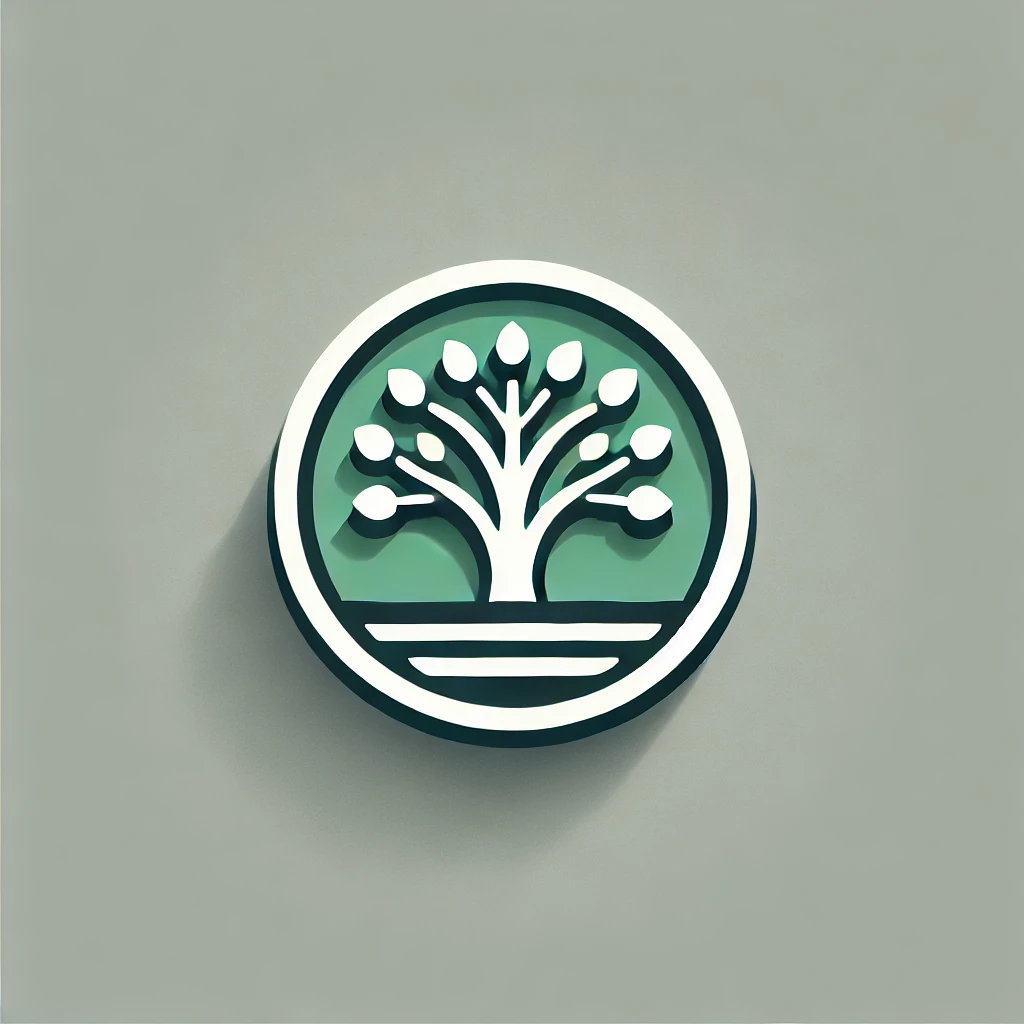
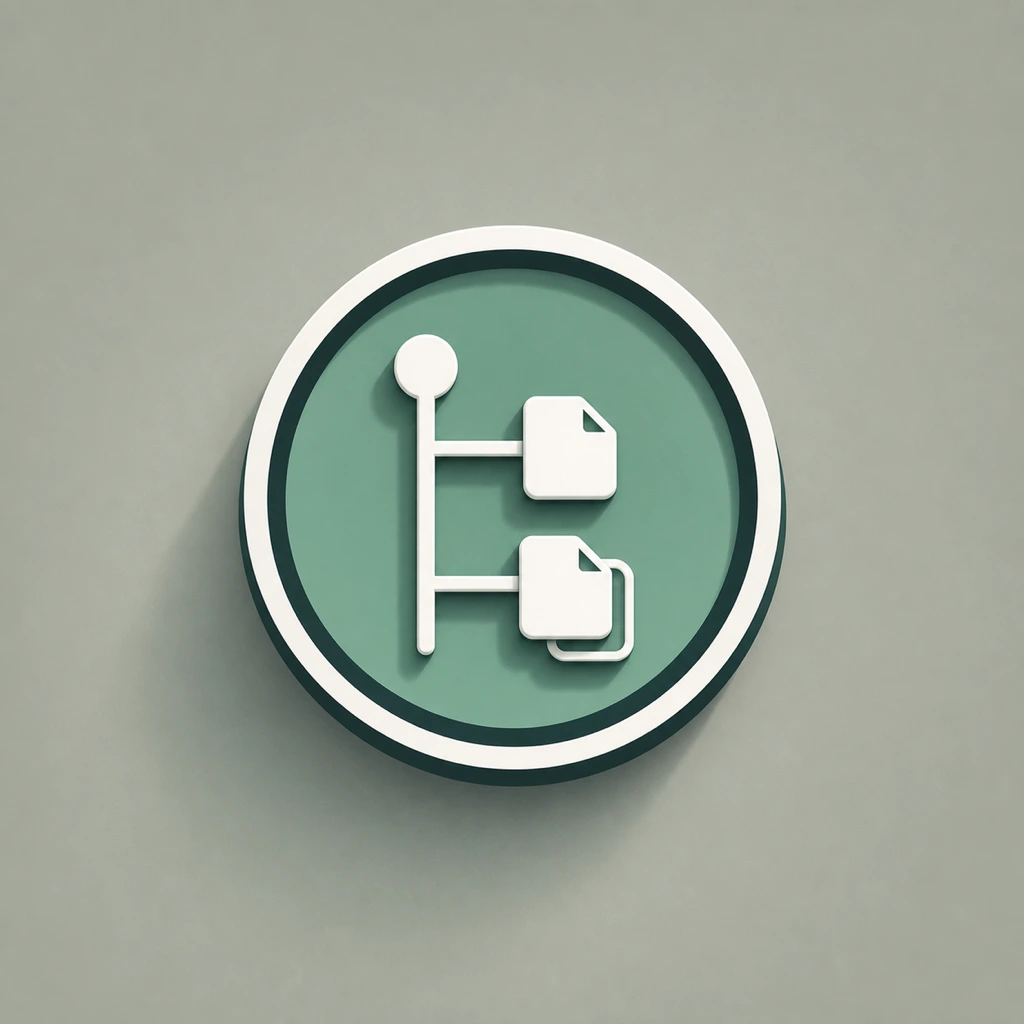
Release 2.0.1

Changed region(s): [[0.1562, 0.2188, 0.7812, 0.8438], [0.1875, 0.6875, 0.2188, 0.75]]

diff --git a/CHANGELOG.md b/CHANGELOG.md
@@ -1,5 +1,10 @@
 # Changelog
 
+## [2.0.1] - 2026-06-29
+### Changed
+- Refreshed the Marketplace icon with a simpler project-tree mark that keeps the original green palette.
+- Replaced retired Marketplace Shields badges with current Visual Studio Marketplace badge URLs.
+
 ## [2.0.0] - 2026-06-29
 ### Added
 - Added deterministic tree sorting with folders-first and alphabetical modes.
@@ -36,5 +41,4 @@
   - Customizable exclusion list.
   - Output formats (plain, markdown, JSON).
   - Copy to clipboard or save to file.
-
 

diff --git a/README.md b/README.md
@@ -1,7 +1,7 @@
 # Copy Project Tree
 
-[![Visual Studio Marketplace Version](https://img.shields.io/visual-studio-marketplace/v/BrainstormDevelopment.copy-project-tree?label=VS%20Marketplace)](https://marketplace.visualstudio.com/items?itemName=BrainstormDevelopment.copy-project-tree)
-[![Visual Studio Marketplace Installs](https://img.shields.io/visual-studio-marketplace/i/BrainstormDevelopment.copy-project-tree?label=installs)](https://marketplace.visualstudio.com/items?itemName=BrainstormDevelopment.copy-project-tree)
+[![Visual Studio Marketplace Version](https://vsmarketplacebadges.dev/version-short/BrainstormDevelopment.copy-project-tree.svg)](https://marketplace.visualstudio.com/items?itemName=BrainstormDevelopment.copy-project-tree)
+[![Visual Studio Marketplace Installs](https://vsmarketplacebadges.dev/installs-short/BrainstormDevelopment.copy-project-tree.svg)](https://marketplace.visualstudio.com/items?itemName=BrainstormDevelopment.copy-project-tree)
 [![CI](https://github.com/Brainstorm-Development/copy-project-tree/actions/workflows/ci.yml/badge.svg)](https://github.com/Brainstorm-Development/copy-project-tree/actions/workflows/ci.yml)
 [![License](https://img.shields.io/github/license/Brainstorm-Development/copy-project-tree)](LICENSE.md)
 